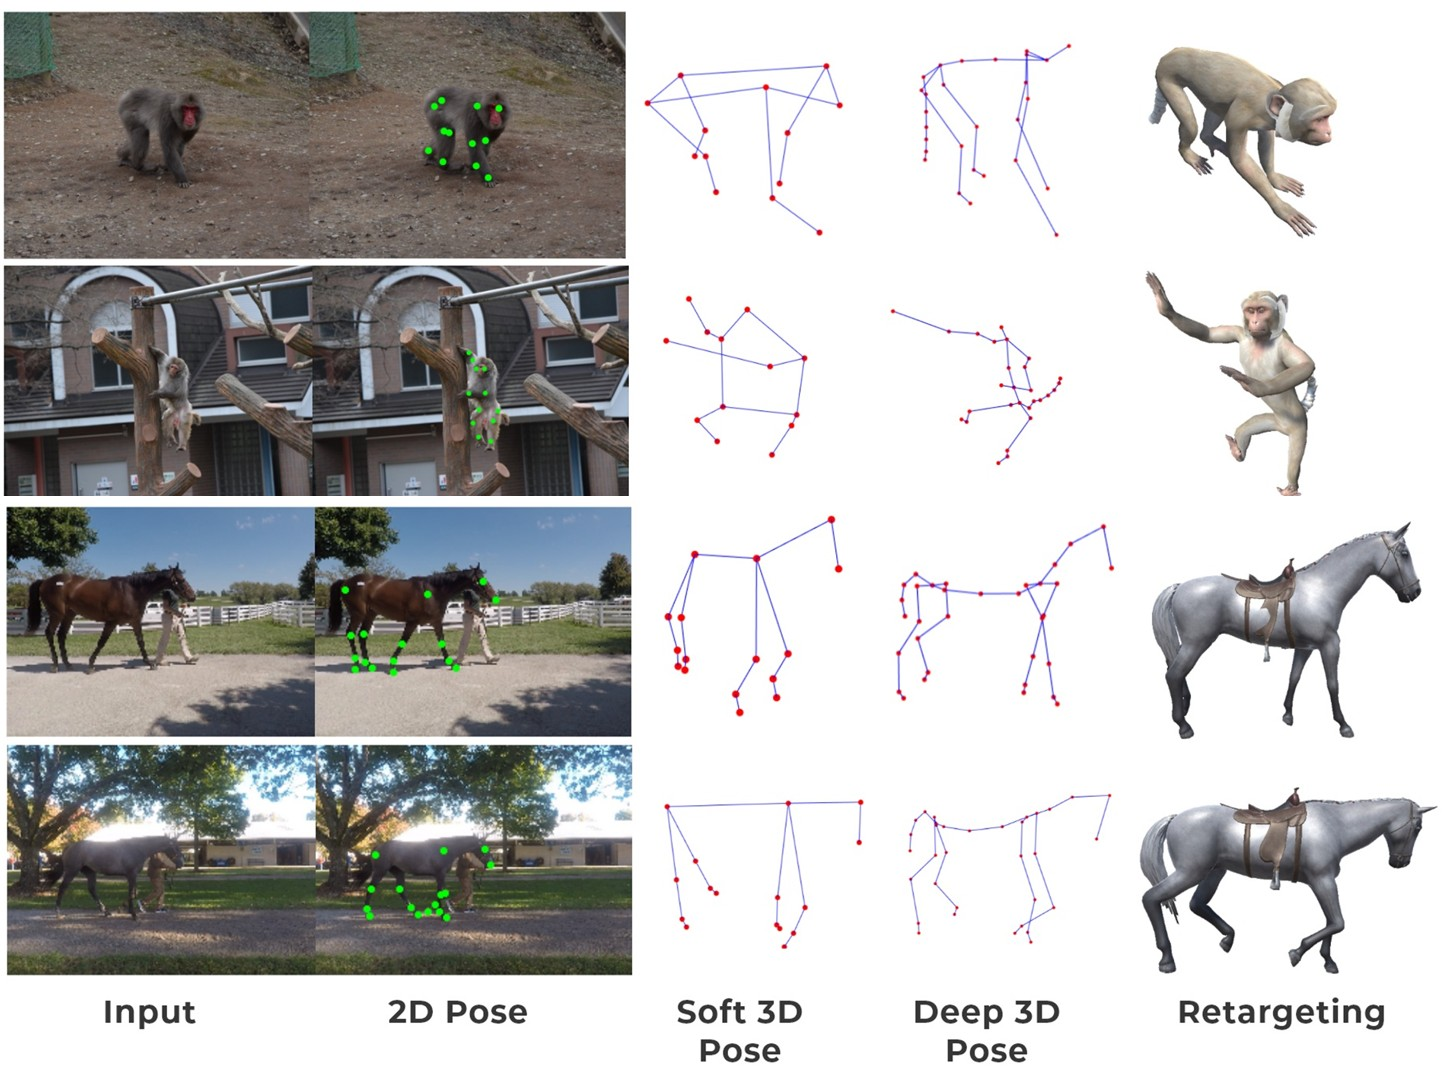
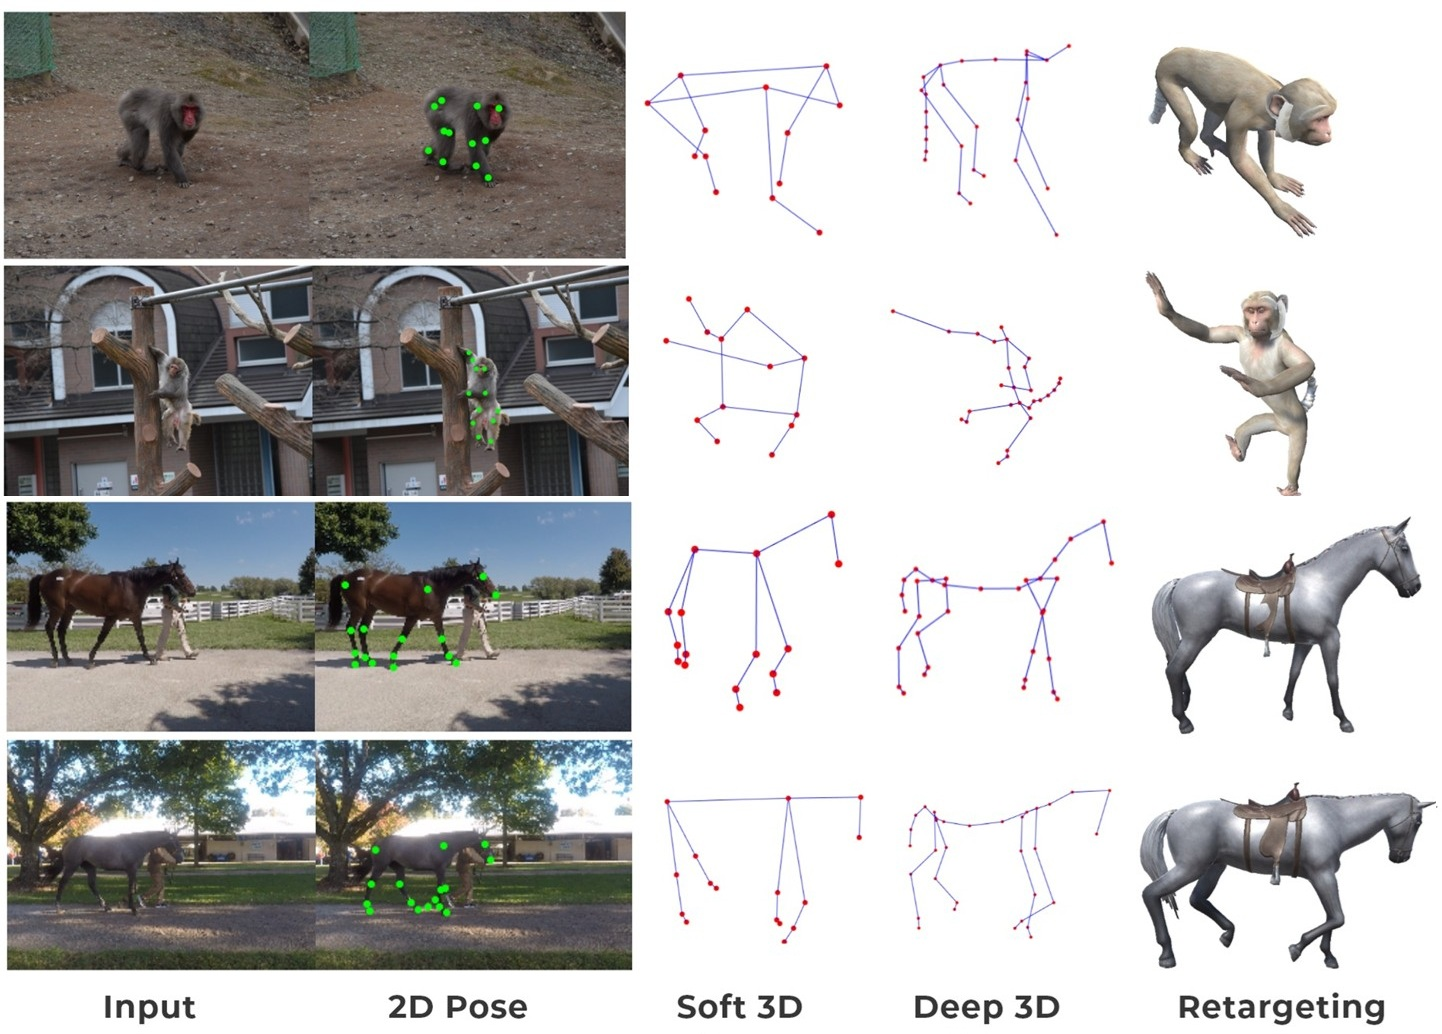
Updated

diff --git a/publications.html b/publications.html
@@ -180,7 +180,7 @@ ul.task-list li input[type="checkbox"] {
 
 <div class="quarto-listing quarto-listing-container-default" id="listing-listing">
 <div class="list quarto-listing-default">
-<div class="quarto-post image-right" data-index="0" data-categories="Computer Graphics,Scribble Art" data-listing-date-sort="1734460200000" data-listing-file-modified-sort="1736592998340" data-listing-date-modified-sort="NaN" data-listing-reading-time-sort="2">
+<div class="quarto-post image-right" data-index="0" data-categories="3D Pose Estimation,Pose Lifting,Attention-MLP,Retargeting" data-listing-date-sort="1734460200000" data-listing-file-modified-sort="1736593907444" data-listing-date-modified-sort="NaN" data-listing-reading-time-sort="2">
 <div class="thumbnail">
 <p><a href="./publications/l3dpose/index.html"> <img src="./publications/l3dpose/teaser.jpg" class="thumbnail-image"> </a></p>
 </div>
@@ -211,7 +211,7 @@ Soumyaratna Debnath, Harish Katti, Shashikant Verma, Shanmuganathan Raman
 </a>
 </div>
 </div>
-<div class="quarto-post image-right" data-index="1" data-categories="Computer Graphics,Scribble Art" data-listing-date-sort="1726684200000" data-listing-file-modified-sort="1736592543339" data-listing-date-modified-sort="NaN" data-listing-reading-time-sort="1">
+<div class="quarto-post image-right" data-index="1" data-categories="Computer Graphics,Scribble Art,Metaheuristics" data-listing-date-sort="1726684200000" data-listing-file-modified-sort="1736593930855" data-listing-date-modified-sort="NaN" data-listing-reading-time-sort="1">
 <div class="thumbnail">
 <p><a href="./publications/scribgen/index.html"> <img src="./publications/scribgen/teaser.jpg" class="thumbnail-image"> </a></p>
 </div>

diff --git a/publications/l3dpose/index.html b/publications/l3dpose/index.html
@@ -129,8 +129,10 @@ ul.task-list li input[type="checkbox"] {
 <div class="quarto-title">
 <h1 class="title">L3D-Pose: Lifting Pose for 3D Avatars from a Single Camera in the Wild</h1>
   <div class="quarto-categories">
-    <div class="quarto-category">Computer Graphics</div>
-    <div class="quarto-category">Scribble Art</div>
+    <div class="quarto-category">3D Pose Estimation</div>
+    <div class="quarto-category">Pose Lifting</div>
+    <div class="quarto-category">Attention-MLP</div>
+    <div class="quarto-category">Retargeting</div>
   </div>
   </div>
 

diff --git a/publications/scribgen/index.html b/publications/scribgen/index.html
@@ -131,6 +131,7 @@ ul.task-list li input[type="checkbox"] {
   <div class="quarto-categories">
     <div class="quarto-category">Computer Graphics</div>
     <div class="quarto-category">Scribble Art</div>
+    <div class="quarto-category">Metaheuristics</div>
   </div>
   </div>
 
